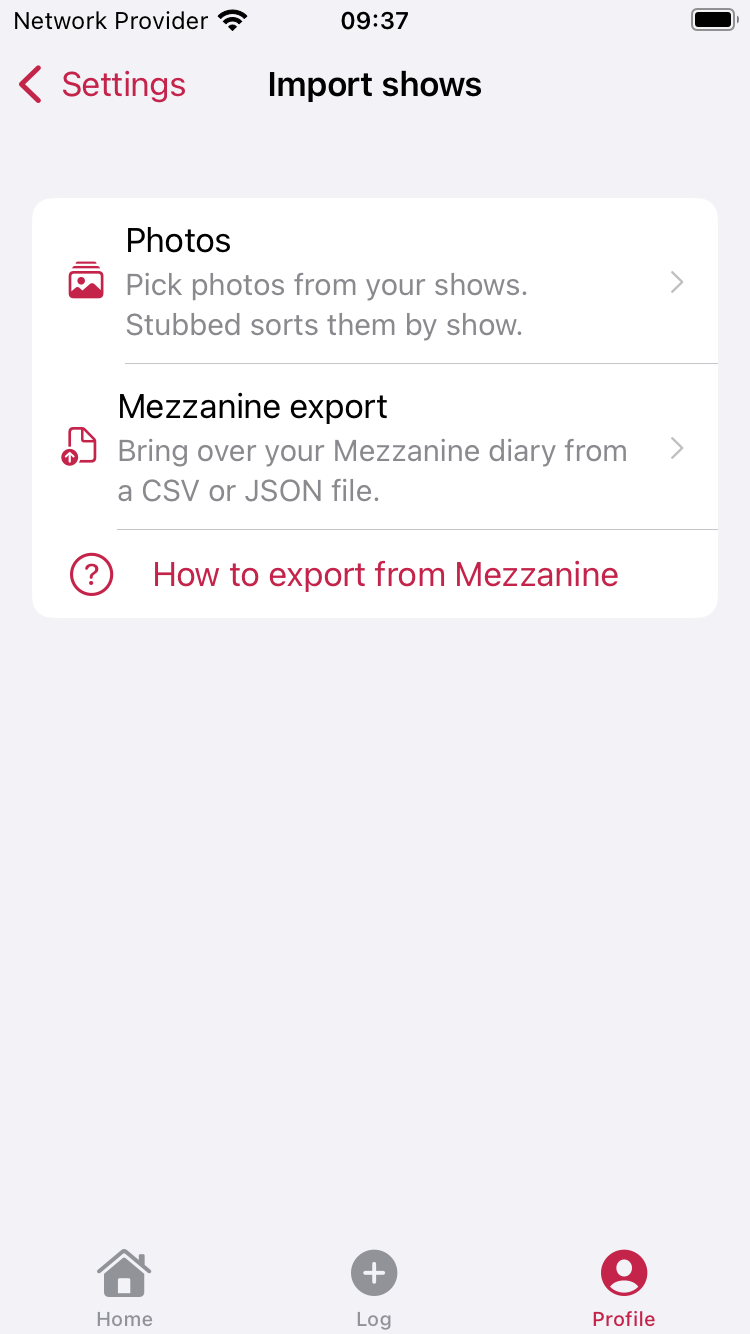
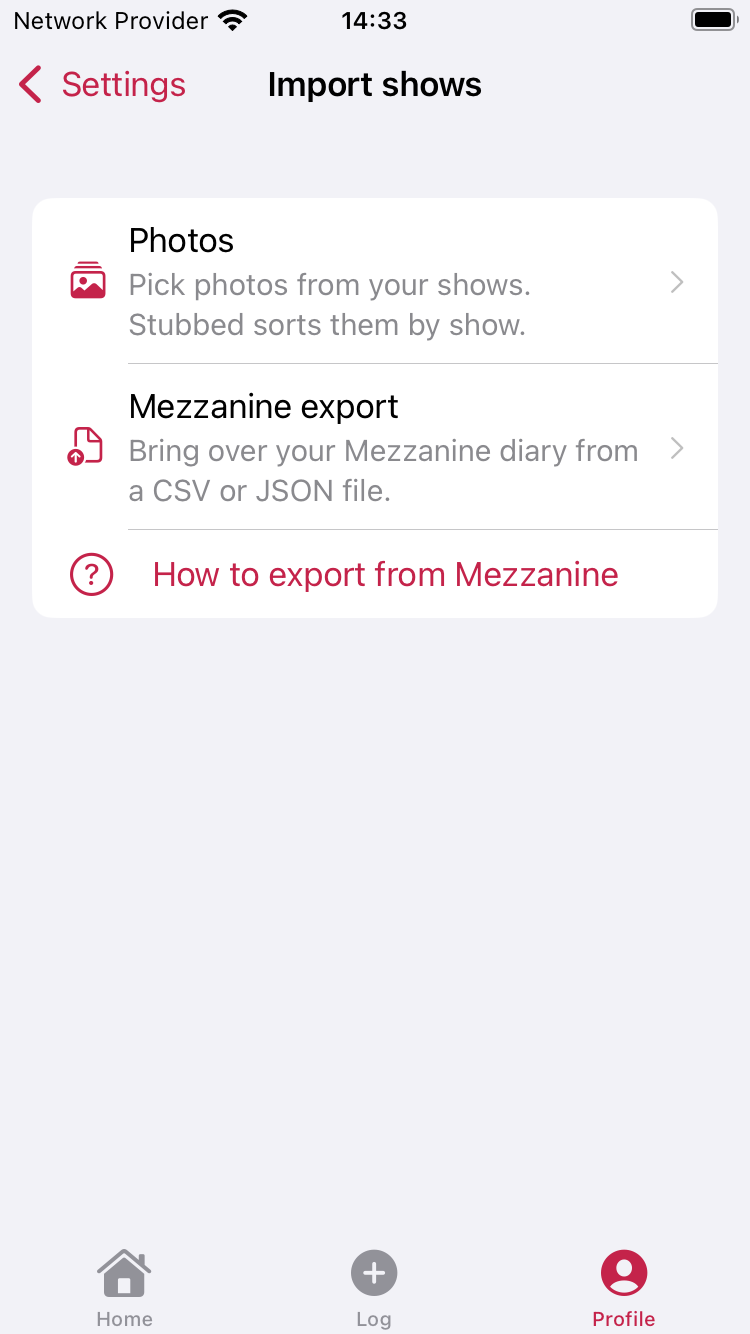
Refresh import screenshots after final design review

Changed region(s): [[0.0613, 0.1537, 0.7667, 0.3996], [0.46, 0.0, 0.552, 0.0307], [0.7973, 0.3381, 0.828, 0.3688]]

diff --git a/docs/screenshots/import-215/README.md b/docs/screenshots/import-215/README.md
@@ -26,7 +26,7 @@ The suggested Card, Notice and Disclosure primitives remain a separate design-sy
 
 ## Latest re-review
 
-Problem messages now describe state in plain red text; Fix is the only filled coral control in the row. The redundant result shortcut is removed, zero counts are hidden, short lists have no jump link, and bulk/country text actions align with headings. Native problem rows now use red warnings and a trailing chevron; hub icons have a fixed width. The screenshots below predate this final re-review polish.
+Problem messages now describe state in plain red text; Fix is the only filled coral control in the row. The redundant result shortcut is removed, zero counts are hidden, short lists have no jump link, and bulk/country text actions align with headings. Native problem rows now use red warnings and a trailing chevron; hub icons have a fixed width. The web screenshots and iOS review renders below were refreshed from commit `356a8e2` on 6 November after the final re-review polish. Web captures use the production build and synthetic local test data; iOS review captures come from the five passing rendering tests.
 
 ## Checks
 
